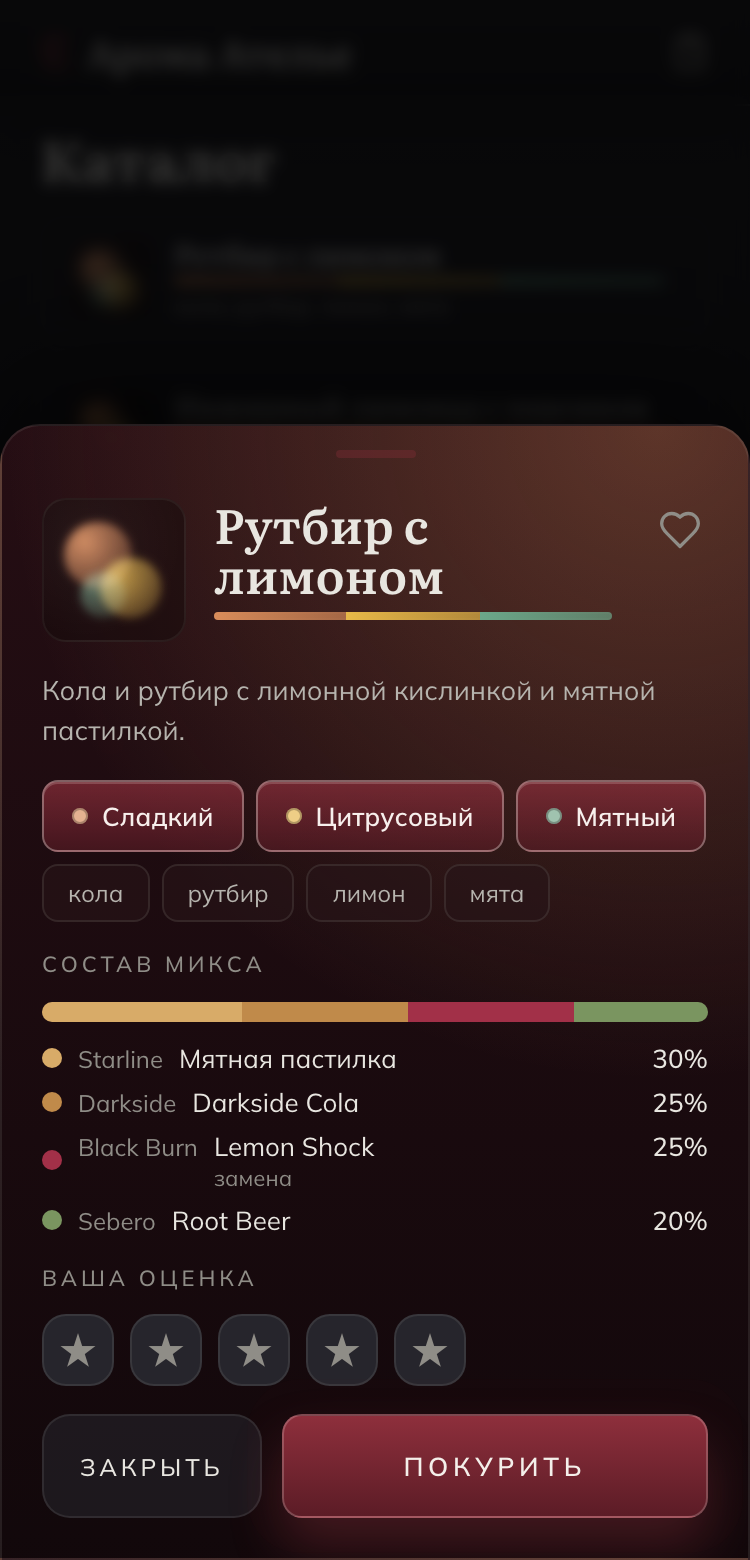
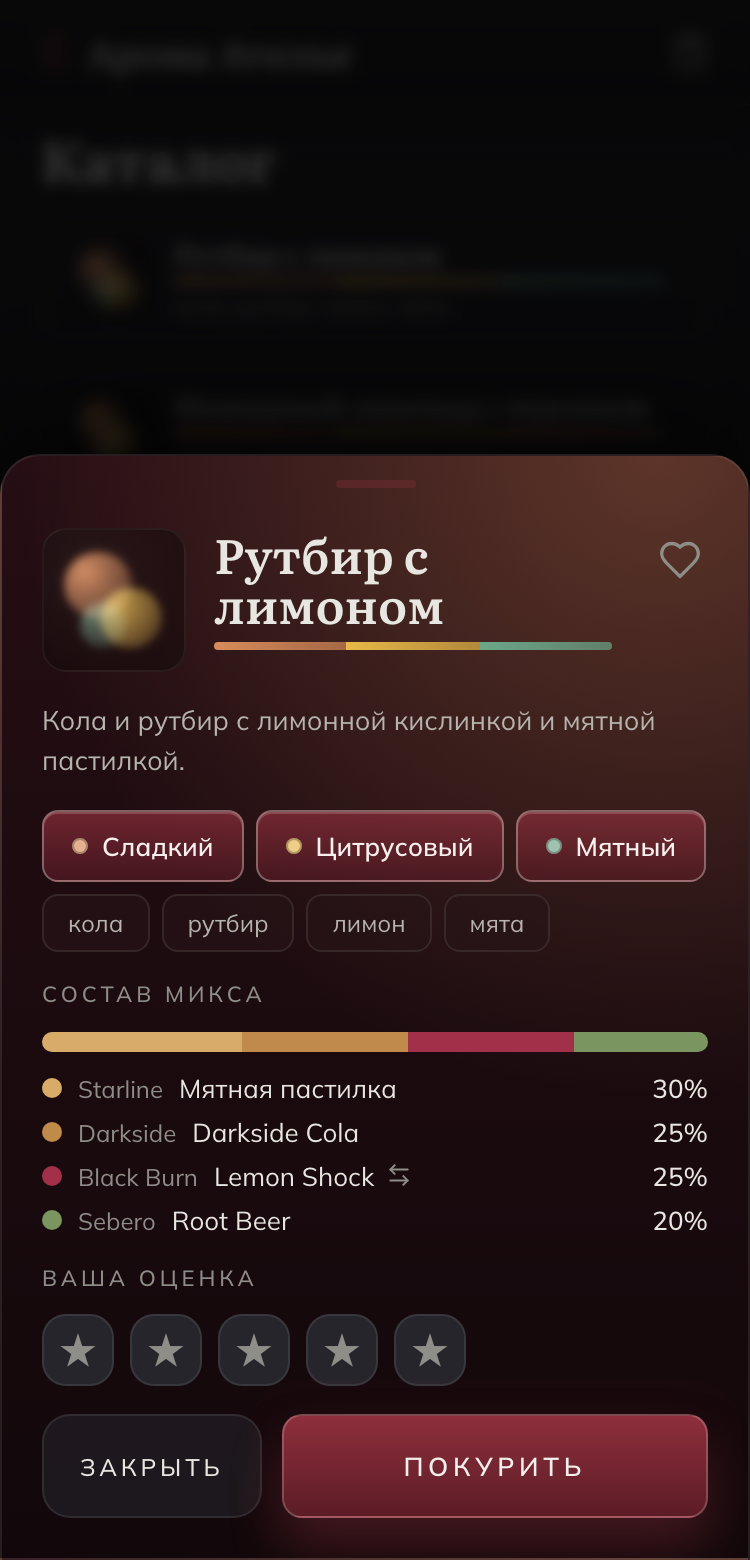
design: замена у гостя — иконка вместо подписи; замена задаётся только у табака (#475)

Changed region(s): [[0.0, 0.2462, 1.0, 0.7692], [0.8893, 0.3385, 0.9507, 0.3692], [0.5213, 0.7385, 0.552, 0.7692]]

diff --git a/design/design_handoff_tobacco_analogs/board.jsx b/design/design_handoff_tobacco_analogs/board.jsx
@@ -354,7 +354,7 @@ function GuestNav({ value }) {
   );
 }
 
-// Состав как в CompositionStack, у замены под названием — пометка «замена».
+// Состав как в CompositionStack, у замены после названия — иконка.
 const AN_PALETTE = ['var(--composition-1)', 'var(--composition-2)', 'var(--composition-3)', 'var(--composition-4)', 'var(--composition-5)'];
 function ServedStack({ mix, showBar = true }) {
   const rows = asServed(mix).sort((a, b) => b.proportion - a.proportion);
@@ -372,7 +372,7 @@ function ServedStack({ mix, showBar = true }) {
             <span className="an-stack-brand">{c.manufacturer}</span>
             <span className="an-stack-name">
               {c.name}
-              {c.substitute ? <small className="an-sub-mark">замена</small> : null}
+              {c.substitute ? <span className="an-sub-mark" role="img" aria-label="замена" title="замена"><Ic name="ArrowLeftRight" size={13} /></span> : null}
             </span>
             <span className="an-stack-pct">{c.proportion + '%'}</span>
           </li>
@@ -499,7 +499,7 @@ const AN_SHOTS = [
   { id: 'mixes', group: 'master', name: 'Миксы', note: 'Новый статус «с заменой»: какой табак стоит вместо какого. У блокированного названо, чего нет, имя табака открывает его карточку. «Ежевичный тархун» блокирован: нет двух табаков, а замена допускается одна.', desk: {} },
   { id: 'shelf-analogs', group: 'master', name: 'Карточка табака: аналоги заданы', note: 'Lemonblast закончился. Порядок в списке и есть порядок замены, стрелками меняется. Ниже похожие табаки с полки и миксы, где табак сейчас подменён.', desk: { card: 'lemonblast' } },
   { id: 'shelf-suggest', group: 'master', name: 'Карточка табака: аналогов нет', note: 'Открыта из «Миксов» по ссылке «Нет: Red Rush». Похожие на полке подобраны по flavors, «Сделать аналогом» в одно действие делает микс видимым с заменой.', desk: { card: 'redrush' } },
-  { id: 'sheet-sub', group: 'guest', name: 'Карточка микса с заменой', note: 'Гость видит табак, который стоит на полке. Под названием пометка «замена». Остальное как у любого микса: оценка, «Покурить».', phone: { view: 'catalog', sheet: { mix: 'rootbeer' } } },
+  { id: 'sheet-sub', group: 'guest', name: 'Карточка микса с заменой', note: 'Гость видит табак, который стоит на полке. После названия иконка замены. Остальное как у любого микса: оценка, «Покурить».', phone: { view: 'catalog', sheet: { mix: 'rootbeer' } } },
   { id: 'confirm-sub', group: 'guest', name: 'Покажите мастеру', note: 'Мастер собирает по этому экрану, поэтому замена видна и здесь.', phone: { view: 'confirm' } },
   { id: 'cab-fav', group: 'guest', name: 'Избранное', note: 'Микс с заменой доступен, без пометки в строке. «Сейчас нет» остаётся только у миксов, которые не собрать и с заменой.', phone: { view: 'cabinet' } },
 ];

diff --git a/design/design_handoff_tobacco_analogs/mockups.html b/design/design_handoff_tobacco_analogs/mockups.html
@@ -578,8 +578,8 @@ body{font-family:var(--font-body);color:var(--text-primary);overflow-x:hidden;ba
 .an-stack-rows li{display:grid;grid-template-columns:10px auto minmax(0,1fr) auto;align-items:baseline;gap:8px}
 .an-stack-dot{width:10px;height:10px;border-radius:var(--r-pill);align-self:center}
 .an-stack-brand{font-size:12px;color:var(--text-muted);white-space:nowrap}
-.an-stack-name{display:grid;gap:1px;min-width:0;font-size:13px;color:var(--text-primary)}
-.an-sub-mark{font-size:11px;color:var(--text-muted)}
+.an-stack-name{display:flex;align-items:center;gap:6px;min-width:0;font-size:13px;color:var(--text-primary)}
+.an-sub-mark{display:inline-flex;flex:none;color:var(--text-muted)}
 .an-stack-pct{font-size:13px;color:var(--text-primary);font-variant-numeric:tabular-nums;font-weight:500}
 
 </style>

diff --git a/design/design_handoff_tobacco_analogs/README.md b/design/design_handoff_tobacco_analogs/README.md
@@ -50,7 +50,7 @@ python3 -m http.server 8765 --bind 127.0.0.1
 
 ### Гость
 
-- **Карточка микса** и **«Покажите мастеру»**: в составе стоит табак с полки, под названием мелкая подпись «замена» (`--text-muted`, 11 px). Пропорция берётся из исходного компонента. Мастер собирает чашу по экрану «Покажите мастеру», поэтому пометка есть и там.
+- **Карточка микса** и **«Покажите мастеру»**: в составе стоит табак с полки, после названия иконка Lucide `ArrowLeftRight` (13 px, `--text-muted`, `aria-label` «замена»), без подписи. Пропорция берётся из исходного компонента. Мастер собирает чашу по экрану «Покажите мастеру», поэтому иконка есть и там.
 - **Строки миксов** (Подбор, Каталог, подборки, «Для вас», кабинет) не меняются: пометки о замене в строке нет.
 - **Кабинет.** Микс с заменой доступен, «Покурить» работает. «Сейчас нет: X» остаётся только у миксов, которые не собрать и с заменой.
 
@@ -64,4 +64,8 @@ python3 -m http.server 8765 --bind 127.0.0.1
 
 1. **Имя группы.** В мокапе у группы нет имени: группа — это просто список аналогов в карточке табака. Предлагаю без имени: на одно поле и одно действие меньше.
 2. **«С заменой» — отдельный статус.** Можно было бы считать такие миксы частью «Виден гостю» с пометкой. Отдельный чип даёт мастеру одним нажатием увидеть, где сейчас подмена.
-3. **Пометка у гостя — «замена».** Без указания, что именно заменено: гостю название исходного табака ничего не скажет.
+
+## Решено
+
+- **Пометка у гостя — только иконка.** Подпись «замена» владелец отклонил. Что именно заменено, гостю не показываем: название исходного табака ему ничего не скажет.
+- **Замена задаётся только у табака.** Группа действует во всех миксах с этим табаком, порядок замены общий. Переключателя «Без замен» у микса нет: владелец отказался.
